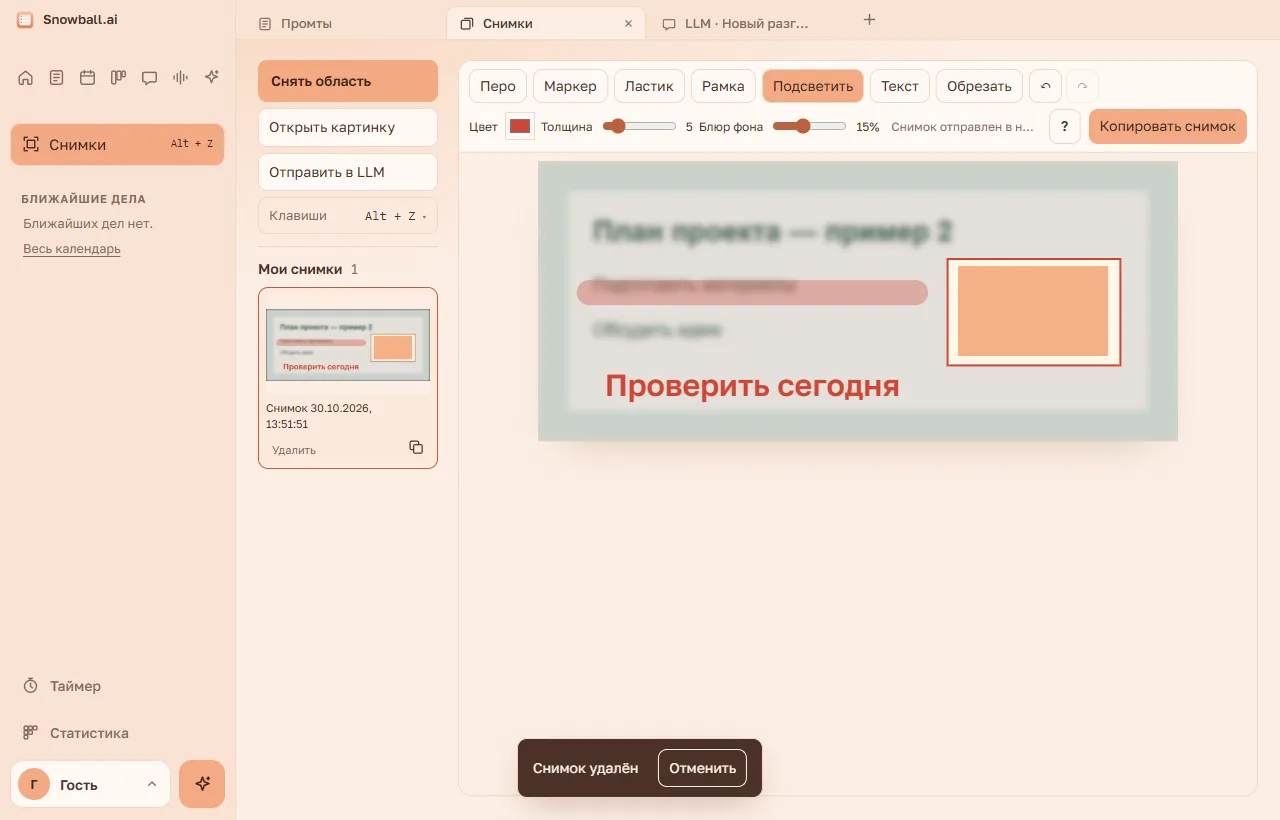
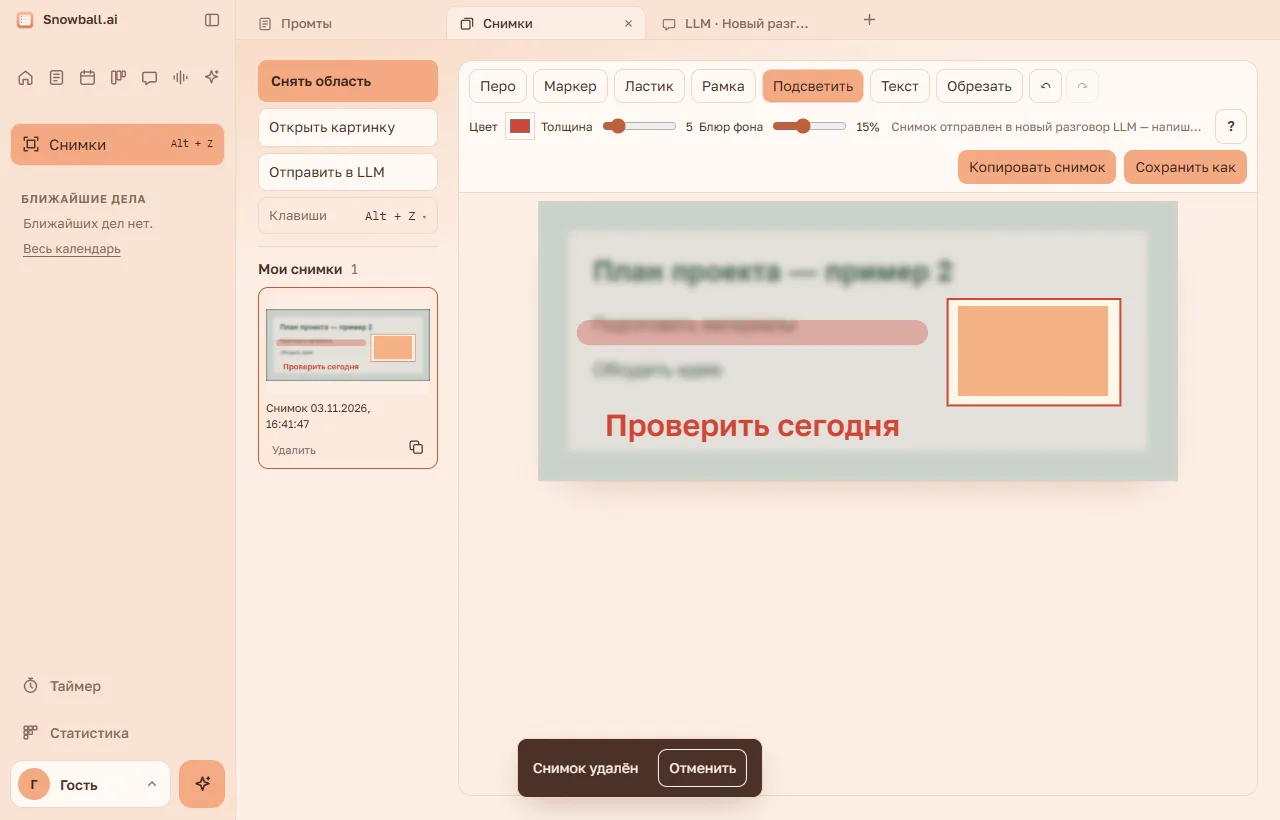
Версия 1.20.3: сохранение снимков в PNG

Changed region(s): [[0.4062, 0.122, 1.0, 0.6098], [0.2188, 0.4878, 0.2812, 0.5183]]

diff --git a/src/guides/guides.js b/src/guides/guides.js
@@ -136,7 +136,7 @@ window.GUIDES = [
       { box: "search", at: [1130, 330], label: "Поиск", text: "Введите слово — останутся только строки с ним, слово подсвечивается." },
       { box: "foot", at: [1130, 560], label: "Кнопки внизу", text: "«Спросить про созвон в LLM» — новый разговор с итогами и текстом. «Пересоздать итоги» — разобрать текст заново. «Убрать итоги» — убрать с дела (само дело остаётся)." }] }] }
   ] },
-  { version: "1.16.0", updated: "1.19.0", section: "screenshots", title: "Снимки", steps: [
+  { version: "1.16.0", updated: "1.20.3", section: "screenshots", title: "Снимки", steps: [
     { title: "Где найти и как снять", lead: "Снимки открываются отдельным разделом. Кнопки захвата — слева над историей, редактор занимает всё остальное место.", frames: [
       { shot: "01-where", points: [
         { box: "section", at: [110, 260], label: "Снимки", text: "Кнопка под иконками слева открывает историю и редактор." },
@@ -162,7 +162,8 @@ window.GUIDES = [
     { title: "Подсветить важное", lead: "Внутри рамки снимок остаётся чётким, остальной фон немного размывается.", frames: [{ shot: "04-focus", points: [
       { box: "tool", at: [1040, 540], label: "Подсветить", text: "Выберите инструмент и обведите важную часть снимка прямоугольником." },
       { box: "blur", at: [700, 580], label: "Блюр фона", text: "Регулируйте размытие вокруг выделенной области. По умолчанию — 15%." },
-      { box: "copy", at: [1080, 660], label: "Копировать", text: "В буфер попадёт готовая картинка со всеми пометками. Вставьте её в другую программу через Ctrl + V." }
+      { box: "copy", at: [1080, 660], label: "Копировать", text: "В буфер попадёт готовая картинка со всеми пометками. Вставьте её в другую программу через Ctrl + V." },
+      { box: "save", at: [850, 710], label: "Сохранить как", text: "Выберите папку и имя файла. Снимок сохранится как изображение PNG вместе с пометками и обрезкой." }
     ] }] },
     { title: "Спросить про снимок в LLM", lead: "Снимок можно сразу отдать нейросети: перевести текст на нём, найти ошибку, описать, что на картинке.", frames: [
       { name: "1. Нажмите", shot: "08-llm-button", points: [

diff --git a/src/screenshots.js b/src/screenshots.js
@@ -253,7 +253,10 @@
               <button data-guide="screenshots">Как пользоваться</button>
             </div>
           </div>
-          <button data-action="copy" class="primary">Копировать снимок</button>
+          <div class="shot-image-actions">
+            <button data-action="copy" class="primary">Копировать снимок</button>
+            <button data-action="export" class="primary">Сохранить как</button>
+          </div>
           </div>
           <div class="shot-stage">
             <p class="shot-empty">
@@ -421,6 +424,7 @@
       $('[data-action="undo"]').disabled = !current?.ops.length;
       $('[data-action="redo"]').disabled = !current?.redo.length;
       $('[data-action="copy"]').disabled = !current;
+      $('[data-action="export"]').disabled = !current;
       $('[data-action="llm"]').disabled = !current;
       $('.shot-crop-actions').hidden = !current || !cropSelection;
       $('[data-action="reset-crop"]').hidden = !current?.crop;
@@ -705,6 +709,12 @@
       check(await api.captureCopy(id, png.t, png.bytes));
       status('Снимок с пометками скопирован — можно вставить через Ctrl + V');
     }
+    async function exportShot(id) {
+      const png = await shotPng(id);
+      if (!png) return;
+      const result = check(await api.captureExport(id, png.t, png.bytes));
+      if (!result.canceled) status('Снимок сохранён.');
+    }
     // «Отправить снимок в LLM»: the main window opens a new LLM tab with this picture attached to the message box.
     async function sendToLlm(id) {
       const png = await shotPng(id);
@@ -899,6 +909,9 @@
     $('[data-action="redo"]').addEventListener('click', () => undo(true));
     $('[data-action="copy"]').addEventListener('click', () =>
       run(() => current && copyShot(current.id)),
+    );
+    $('[data-action="export"]').addEventListener('click', () =>
+      run(() => current && exportShot(current.id)),
     );
     $('[data-action="llm"]').addEventListener('click', () =>
       run(() => current && sendToLlm(current.id)),

diff --git a/src/guides/1.16.0/boxes.js b/src/guides/1.16.0/boxes.js
@@ -1,3 +1,3 @@
 // Made by tools/guide-shots/run.js: where the buttons are on each screenshot of this guide (pixels of 1280 × 820).
 window.GUIDE_BOXES = window.GUIDE_BOXES || {};
-window.GUIDE_BOXES["1.16.0"] = {"01-where":{"section":[10,123,215,43],"capture":[258,60,180,42],"key":[258,197,180,37],"help":[1049,109,32,34]},"01-keys":{"pop":[258,240,320,175],"change":[335,276,89,38],"reset":[271,320,153,38]},"02-tools":{"tools":[469,69,630,34],"pressure":[704,116,159,20],"color":[505,112,30,28],"brush":[886,262,60,60],"undo":[1029,69,71,34]},"03-text":{"text":[602,365,301,56],"tool":[870,69,60,34]},"04-focus":{"tool":[762,69,102,34],"blur":[699,116,181,20],"image":[538,161,640,280],"copy":[1089,109,159,34]},"08-llm-button":{"llm":[258,153,180,38]},"09-llm-chat":{"tab":[648,6,200,34],"attach":[538,619,64,64],"input":[536,695,707,32]},"05-history":{"history":[258,60,180,736],"copy":[402,432,30,30],"remove":[266,439,56,22],"undo":[517,738,246,60]},"06-crop-selection":{"tool":[936,69,87,34],"selection":[538,201,640,280],"apply":[699,111,140,31]},"07-crop-result":{"image":[656,161,404,197],"reset":[699,111,147,31],"copy":[1089,109,159,34]}};
+window.GUIDE_BOXES["1.16.0"] = {"01-where":{"section":[10,123,215,43],"capture":[258,60,180,42],"key":[258,197,180,37],"help":[918,109,32,34]},"01-keys":{"pop":[258,240,320,175],"change":[335,276,89,38],"reset":[271,320,153,38]},"02-tools":{"tools":[469,69,630,34],"pressure":[704,116,159,20],"color":[505,112,30,28],"brush":[886,302,60,60],"undo":[1029,69,71,34]},"03-text":{"text":[602,365,301,56],"tool":[870,69,60,34]},"04-focus":{"tool":[762,69,102,34],"blur":[699,116,181,20],"image":[538,201,640,280],"copy":[958,150,159,34],"save":[0,0,0,0]},"08-llm-button":{"llm":[258,153,180,38]},"09-llm-chat":{"tab":[648,6,200,34],"attach":[538,619,64,64],"input":[536,695,707,32]},"05-history":{"history":[258,60,180,736],"copy":[402,432,30,30],"remove":[266,439,56,22],"undo":[517,738,246,60]},"06-crop-selection":{"tool":[936,69,87,34],"selection":[538,201,640,280],"apply":[699,111,140,31]},"07-crop-result":{"image":[656,201,404,197],"reset":[699,111,147,31],"copy":[958,150,159,34]}};

diff --git a/screenshots.js b/screenshots.js
@@ -12,6 +12,7 @@ const {
   app,
 } = require('electron');
 const path = require('path');
+const fs = require('fs/promises');
 const crypto = require('crypto');
 const { ScreenshotStore, pngSize, validSize, cropRect, discardUndo } = require('./screenshot-store');
 const SHORTCUTS = ['Alt+Z', 'Alt+V', 'Alt+B'];
@@ -430,6 +431,22 @@ module.exports = function setupScreenshots(options) {
     check(t);
     clipboard.writeImage(image);
     await options.record();
+    return {};
+  });
+  handle('capture-export', async (w, id, t, bytes) => {
+    check(t);
+    const item = await storage.get(id), size = pngSize(bytes), view = item.crop || item;
+    if (size.width !== view.width || size.height !== view.height)
+      throw Error('Размер изображения не совпадает со снимком.');
+    const name = (item.name || 'Снимок').replace(/[<>:"/\\|?*\x00-\x1f]/g, '_').replace(/[. ]+$/, '') || 'Снимок';
+    const result = await dialog.showSaveDialog(w, {
+      title: 'Сохранить снимок',
+      defaultPath: name.replace(/\.png$/i, '') + '.png',
+      filters: [{ name: 'Изображение PNG', extensions: ['png'] }],
+    });
+    if (result.canceled || !result.filePath) return { canceled: true };
+    check(t);
+    await fs.writeFile(result.filePath, Buffer.from(bytes));
     return {};
   });
   // The picture goes to the main window, which opens a new LLM tab with it (app.js, onCaptureLlm).

diff --git a/tools/guide-shots/shots-1.16.0.js b/tools/guide-shots/shots-1.16.0.js
@@ -61,7 +61,7 @@ module.exports = async function ({ main, page, shot }) {
   await ev('window.screenshotEditor.flush()');
   await draw('focus', .64, .35, .91, .73);
   await ev('window.screenshotEditor.flush()');
-  await guideShot('04-focus', { tool: '[data-tool=focus]', blur: '.shot-blur-label', image: '.shot-stage canvas', copy: '[data-action=copy]' });
+  await guideShot('04-focus', { tool: '[data-tool=focus]', blur: '.shot-blur-label', image: '.shot-stage canvas', copy: '[data-action=copy]', save: '[data-action=export]' });
   // «Отправить в LLM»: the button, then the new LLM tab with the picture in the message box.
   await guideShot('08-llm-button', { llm: '[data-action=llm]' });
   await click('[data-action=llm]');

diff --git a/preload.js b/preload.js
@@ -11,6 +11,7 @@ contextBridge.exposeInMainWorld('vsApi', {
   captureGet: (id, token) => ipcRenderer.invoke('capture-get', id, token),
   captureSave: (id, token, value) => ipcRenderer.invoke('capture-save', id, token, value),
   captureCopy: (id, token, bytes) => ipcRenderer.invoke('capture-copy', id, token, bytes),
+  captureExport: (id, token, bytes) => ipcRenderer.invoke('capture-export', id, token, bytes),
   captureToLlm: (id, token, bytes) => ipcRenderer.invoke('capture-llm', id, token, bytes),
   onCaptureLlm: fn => { const f = (_e, shot) => fn(shot); ipcRenderer.on('capture-llm', f); return () => ipcRenderer.removeListener('capture-llm', f); },
   captureStart: () => ipcRenderer.invoke('capture-start'),

diff --git a/capture-preload.js b/capture-preload.js
@@ -8,6 +8,7 @@ contextBridge.exposeInMainWorld('vsApi', {
   captureGet: (id, token) => ipcRenderer.invoke('capture-get', id, token),
   captureSave: (id, token, value) => ipcRenderer.invoke('capture-save', id, token, value),
   captureCopy: (id, token, bytes) => ipcRenderer.invoke('capture-copy', id, token, bytes),
+  captureExport: (id, token, bytes) => ipcRenderer.invoke('capture-export', id, token, bytes),
   captureToLlm: (id, token, bytes) => ipcRenderer.invoke('capture-llm', id, token, bytes),
   captureStart: () => ipcRenderer.invoke('capture-start'),
   pathForFile: (file) => { try { return webUtils.getPathForFile(file) || ''; } catch (e) { return ''; } },

diff --git a/src/screenshots.css b/src/screenshots.css
@@ -346,7 +346,7 @@
   display: flex;
   flex-direction: column;
 }
-/* One row: tools, their settings, the save status, «?» and «Копировать снимок». A narrow window wraps it. */
+/* One row: tools, settings, status, help and image actions. A narrow window wraps it. */
 .capture-app .shot-bar {
   display: flex;
   flex-wrap: wrap;
@@ -364,6 +364,11 @@
 }
 .capture-app .shot-bar button {
   padding: 6px 10px;
+}
+.capture-app .shot-image-actions {
+  display: flex;
+  gap: 8px;
+  margin-left: auto;
 }
 .capture-app button.shot-help-btn {
   width: 32px;

diff --git a/CLAUDE.md b/CLAUDE.md
@@ -73,6 +73,7 @@
 - Статистика `transcribe`: новая расшифровка, краткое содержание, копирование текста или таймингов, сохранение .srt или .txt. Правки текста и удаление не считаются.
 
 ## Снимки экрана
+- С 1.20.3 рядом с «Копировать снимок» есть «Сохранить как» (`capture-export`, `captureExport` в обоих preload): PNG с текущими пометками и обрезкой, системное окно выбора папки над текущим окном. Инструкция снимков переснята, `updated: "1.20.3"`.
 - Круг `.shot-brush-preview` поверх холста показывает настоящий диаметр пера или маркера с учётом масштаба просмотра (у маркера ширина следа в 5 раз больше выбранной толщины). Он есть только у пера и маркера, следует за мышью и прячется, когда мышь уходит со снимка (`overCanvas`). При выборе пера или маркера и при движении ползунков «Толщина» и «Нажим» круг на секунду показывается (`showSizing`): под мышью, если она на снимке, иначе посередине. В сохранённое или скопированное изображение круг не входит.
 - Раздел «Снимки» (вид `screenshots`, `TABS.screenshots`): не иконка в `.side-icons`, а отдельная широкая кнопка `.capture-nav` под ними с сочетанием клавиш. Интерфейс раздела целиком рисует `SnowCapture.mount` из `src/screenshots.js` (в главном окне — при первом открытии раздела, `window.screenshotEditor`). Шапки у раздела нет (с 1.16.14, макеты `mockups/screenshots-compact.html` и `mockups/screenshots-placement.html`): слева сверху `.shot-actions` — «＋ Снять область», «Открыть картинку», «Отправить в LLM» (см. ниже) и кнопка «Клавиши Alt + Z ▾» (`.shot-key-btn`, при неработающем сочетании красный «!»; по клику окошко `.shot-key-pop` с `SnowShortcut` — «Изменить», «Сбросить на Alt + Z» и подписью), под ними «Мои снимки» (карточки с кнопкой копирования); справа редактор с одной строкой `.shot-bar`: инструменты, их настройки, строка сохранения (`.shot-status`, в одну строку, размер снимка — в подсказке), «?» (`.shot-help-pop`: подсказки по захвату и «Как пользоваться») и «Копировать снимок». Окошки закрываются кликом мимо и Esc, но не во время записи сочетания (запись сама отменяется, если её поле не видно — MutationObserver в `capture-shortcut.js`). Редактор — «Перо», «Маркер» (с «Нажимом» — прозрачность), «Рамка», «Подсветить» (область чёткая, фон размыт, «Блюр фона»), «Текст» (прямоугольник, размер букв подбирается под него — `textLayout`; Ctrl + Enter — готово), «Обрезать» (выделить область и применить; исходник и пометки остаются, «Вернуть весь снимок» снимает обрезку), отменить/вернуть пометку (Ctrl + Z, Ctrl + Shift + Z), цвет, толщина, «Копировать снимок». Снимок стоит сразу под строкой инструментов, по центру по ширине (`.shot-stage`, `align-items: flex-start`); большой уменьшается под свободное место, маленький показывается в настоящем размере — `fitCanvas` не увеличивает больше 100%, чтобы не мутнел. Отдельное окно редактора занимает 80% рабочего пространства экрана. «Открыть картинку» принимает png, jpg, webp. Пометки и обрезка сохраняются сами через 350 мс. У карточки есть «Удалить»: папка сразу уходит в корзину Windows (`shell.trashItem`), снизу 7 секунд «Снимок удалён · Отменить». Для отмены главный процесс держит временную копию; после срока удаляет только её, оригинал остаётся в корзине. Удаление и восстановление не считаются в статистике.
 - Захват: глобальное сочетание (`globalShortcut`) работает поверх любых программ, пока Snowball запущена: `Alt+Z` по умолчанию или своё сочетание через «Изменить» (хранится в `settings.captureShortcut`; запасные `Alt+V` и `Alt+B` пробуются только при первом запуске без прежнего выбора, предупреждение видно в левой панели без открытия раздела; выбранное сочетание также показывается в настройках). `start` прячет окно, которое попросило (и ждёт 180 мс, чтобы оно исчезло; по сочетанию клавиш не ждёт), снимает все мониторы (`desktopCapturer`) и показывает на каждом окно выделения `capture-overlay.html` (Shift — квадрат, правая кнопка — весь монитор, Esc — отмена, через 2 минуты закрывается само). Окна выделения готовятся заранее, по одному на монитор, через 3 секунды после запуска (`pool`, `warm`, `makeOverlay`), и между захватами только прячутся (`capture-reset` стирает картинку); при подключении, отключении или смене масштаба монитора пересоздаются. Снимок экрана уходит в окно сырыми точками (`capture-frame`, `toBitmap`: B, G, R, A — окно переставляет в R, G, B, A), без упаковки в PNG; окно показывается, когда нарисовало (`capture-ready`). Так захват занимает ~0,3 с вместо ~1,1 с; почти всё оставшееся время — сам `desktopCapturer.getSources` (иногда Windows отвечает 1–4 с, это от нас не зависит). Замер: `node tools/screenshot-timing.cjs [раз]` (настоящий экран, отдельный профиль, каждый захват отменяется; переменная `SNOWBALL_CAPTURE_TIMING=1` печатает время каждого шага). Спрятанные окна выделения не должны держать программу: при закрытии последнего обычного окна их убирает `captures.releaseOverlays()`. После выделения снимок сохраняется и открывается отдельное окно редактора `capture-editor.html` (одно на всю программу). Окна захвата и редактора помечены `__snowCapture`, `liveWins` в `main.js` их не видит; тему им шлёт `captures.theme()`. При закрытии последнего обычного окна `captures.closeAuxiliary()` сохраняет пометки и закрывает редактор и выделение. Окно, попросившее захват кнопкой, явно возвращается после завершения или отмены.

diff --git a/AGENTS.md b/AGENTS.md
@@ -66,6 +66,7 @@
 - Статистика `transcribe`: новая расшифровка, краткое содержание, копирование текста или таймингов, сохранение .srt или .txt. Правки текста и удаление не считаются.
 
 ## Снимки экрана
+- С 1.20.3 рядом с «Копировать снимок» есть «Сохранить как» (`capture-export`, `captureExport` в обоих preload): PNG с текущими пометками и обрезкой, системное окно выбора папки над текущим окном. Инструкция снимков переснята, `updated: "1.20.3"`.
 - Круг `.shot-brush-preview` поверх холста показывает настоящий диаметр пера или маркера с учётом масштаба просмотра (у маркера ширина следа в 5 раз больше выбранной толщины). Он есть только у пера и маркера, следует за мышью и прячется, когда мышь уходит со снимка (`overCanvas`). При выборе пера или маркера и при движении ползунков «Толщина» и «Нажим» круг на секунду показывается (`showSizing`): под мышью, если она на снимке, иначе посередине. В сохранённое или скопированное изображение круг не входит.
 - Раздел «Снимки» (вид `screenshots`, `TABS.screenshots`): не иконка в `.side-icons`, а отдельная широкая кнопка `.capture-nav` под ними с сочетанием клавиш. Интерфейс раздела целиком рисует `SnowCapture.mount` из `src/screenshots.js` (в главном окне — при первом открытии раздела, `window.screenshotEditor`). Шапки у раздела нет (с 1.16.14, макеты `mockups/screenshots-compact.html` и `mockups/screenshots-placement.html`): слева сверху `.shot-actions` — «＋ Снять область», «Открыть картинку» и кнопка «Клавиши Alt + Z ▾» (`.shot-key-btn`, при неработающем сочетании красный «!»; по клику окошко `.shot-key-pop` с `SnowShortcut` — «Изменить», «Сбросить на Alt + Z» и подписью), под ними «Мои снимки» (карточки с кнопкой копирования); справа редактор с одной строкой `.shot-bar`: инструменты, их настройки, строка сохранения (`.shot-status`, в одну строку, размер снимка — в подсказке), «?» (`.shot-help-pop`: подсказки по захвату и «Как пользоваться») и «Копировать снимок». Окошки закрываются кликом мимо и Esc, но не во время записи сочетания (запись сама отменяется, если её поле не видно — MutationObserver в `capture-shortcut.js`). Редактор — «Перо», «Маркер» (с «Нажимом» — прозрачность), «Рамка», «Подсветить» (область чёткая, фон размыт, «Блюр фона»), «Текст» (прямоугольник, размер букв подбирается под него — `textLayout`; Ctrl + Enter — готово), «Обрезать» (выделить область и применить; исходник и пометки остаются, «Вернуть весь снимок» снимает обрезку), отменить/вернуть пометку (Ctrl + Z, Ctrl + Shift + Z), цвет, толщина, «Копировать снимок». Снимок стоит сразу под строкой инструментов, по центру по ширине (`.shot-stage`, `align-items: flex-start`); большой уменьшается под свободное место, маленький показывается в настоящем размере — `fitCanvas` не увеличивает больше 100%, чтобы не мутнел. Отдельное окно редактора занимает 80% рабочего пространства экрана. «Открыть картинку» принимает png, jpg, webp. Пометки и обрезка сохраняются сами через 350 мс. У карточки есть «Удалить»: папка сразу уходит в корзину Windows (`shell.trashItem`), снизу 7 секунд «Снимок удалён · Отменить». Для отмены главный процесс держит временную копию; после срока удаляет только её, оригинал остаётся в корзине. Удаление и восстановление не считаются в статистике.
 - Захват: глобальное сочетание (`globalShortcut`) работает поверх любых программ, пока Snowball запущена: `Alt+Z` по умолчанию или своё сочетание через «Изменить» (хранится в `settings.captureShortcut`; запасные `Alt+V` и `Alt+B` пробуются только при первом запуске без прежнего выбора, предупреждение видно в левой панели без открытия раздела; выбранное сочетание также показывается в настройках). `start` прячет окно, которое попросило (и ждёт 180 мс, чтобы оно исчезло; по сочетанию клавиш не ждёт), снимает все мониторы (`desktopCapturer`) и показывает на каждом окно выделения `capture-overlay.html` (Shift — квадрат, правая кнопка — весь монитор, Esc — отмена, через 2 минуты закрывается само). Окна выделения готовятся заранее, по одному на монитор, через 3 секунды после запуска (`pool`, `warm`, `makeOverlay`), и между захватами только прячутся (`capture-reset` стирает картинку); при подключении, отключении или смене масштаба монитора пересоздаются. Снимок экрана уходит в окно сырыми точками (`capture-frame`, `toBitmap`: B, G, R, A — окно переставляет в R, G, B, A), без упаковки в PNG; окно показывается, когда нарисовало (`capture-ready`). Так захват занимает ~0,3 с вместо ~1,1 с; почти всё оставшееся время — сам `desktopCapturer.getSources` (иногда Windows отвечает 1–4 с, это от нас не зависит). Замер: `node tools/screenshot-timing.cjs [раз]` (настоящий экран, отдельный профиль, каждый захват отменяется; переменная `SNOWBALL_CAPTURE_TIMING=1` печатает время каждого шага). Спрятанные окна выделения не должны держать программу: при закрытии последнего обычного окна их убирает `captures.releaseOverlays()`. После выделения снимок сохраняется и открывается отдельное окно редактора `capture-editor.html` (одно на всю программу). Окна захвата и редактора помечены `__snowCapture`, `liveWins` в `main.js` их не видит; тему им шлёт `captures.theme()`. При закрытии последнего обычного окна `captures.closeAuxiliary()` сохраняет пометки и закрывает редактор и выделение. Окно, попросившее захват кнопкой, явно возвращается после завершения или отмены.

diff --git a/CHANGELOG.md b/CHANGELOG.md
@@ -1,5 +1,12 @@
 # Что нового в Snowball.ai
 
+## 1.20.3
+
+### Снимки
+- В редакторе снимков рядом с кнопкой «Копировать снимок» появилась **«Сохранить как»**. Выберите папку и имя файла, чтобы сохранить снимок на компьютере как изображение PNG.
+- В файл попадёт то, что видно в редакторе: снимок вместе с пометками и обрезкой. Кнопка доступна и в отдельном окне снимка.
+- Инструкция «Как пользоваться» для снимков обновлена: в ней показана новая кнопка.
+
 ## 1.20.2
 
 ### Скиллы и LLM
